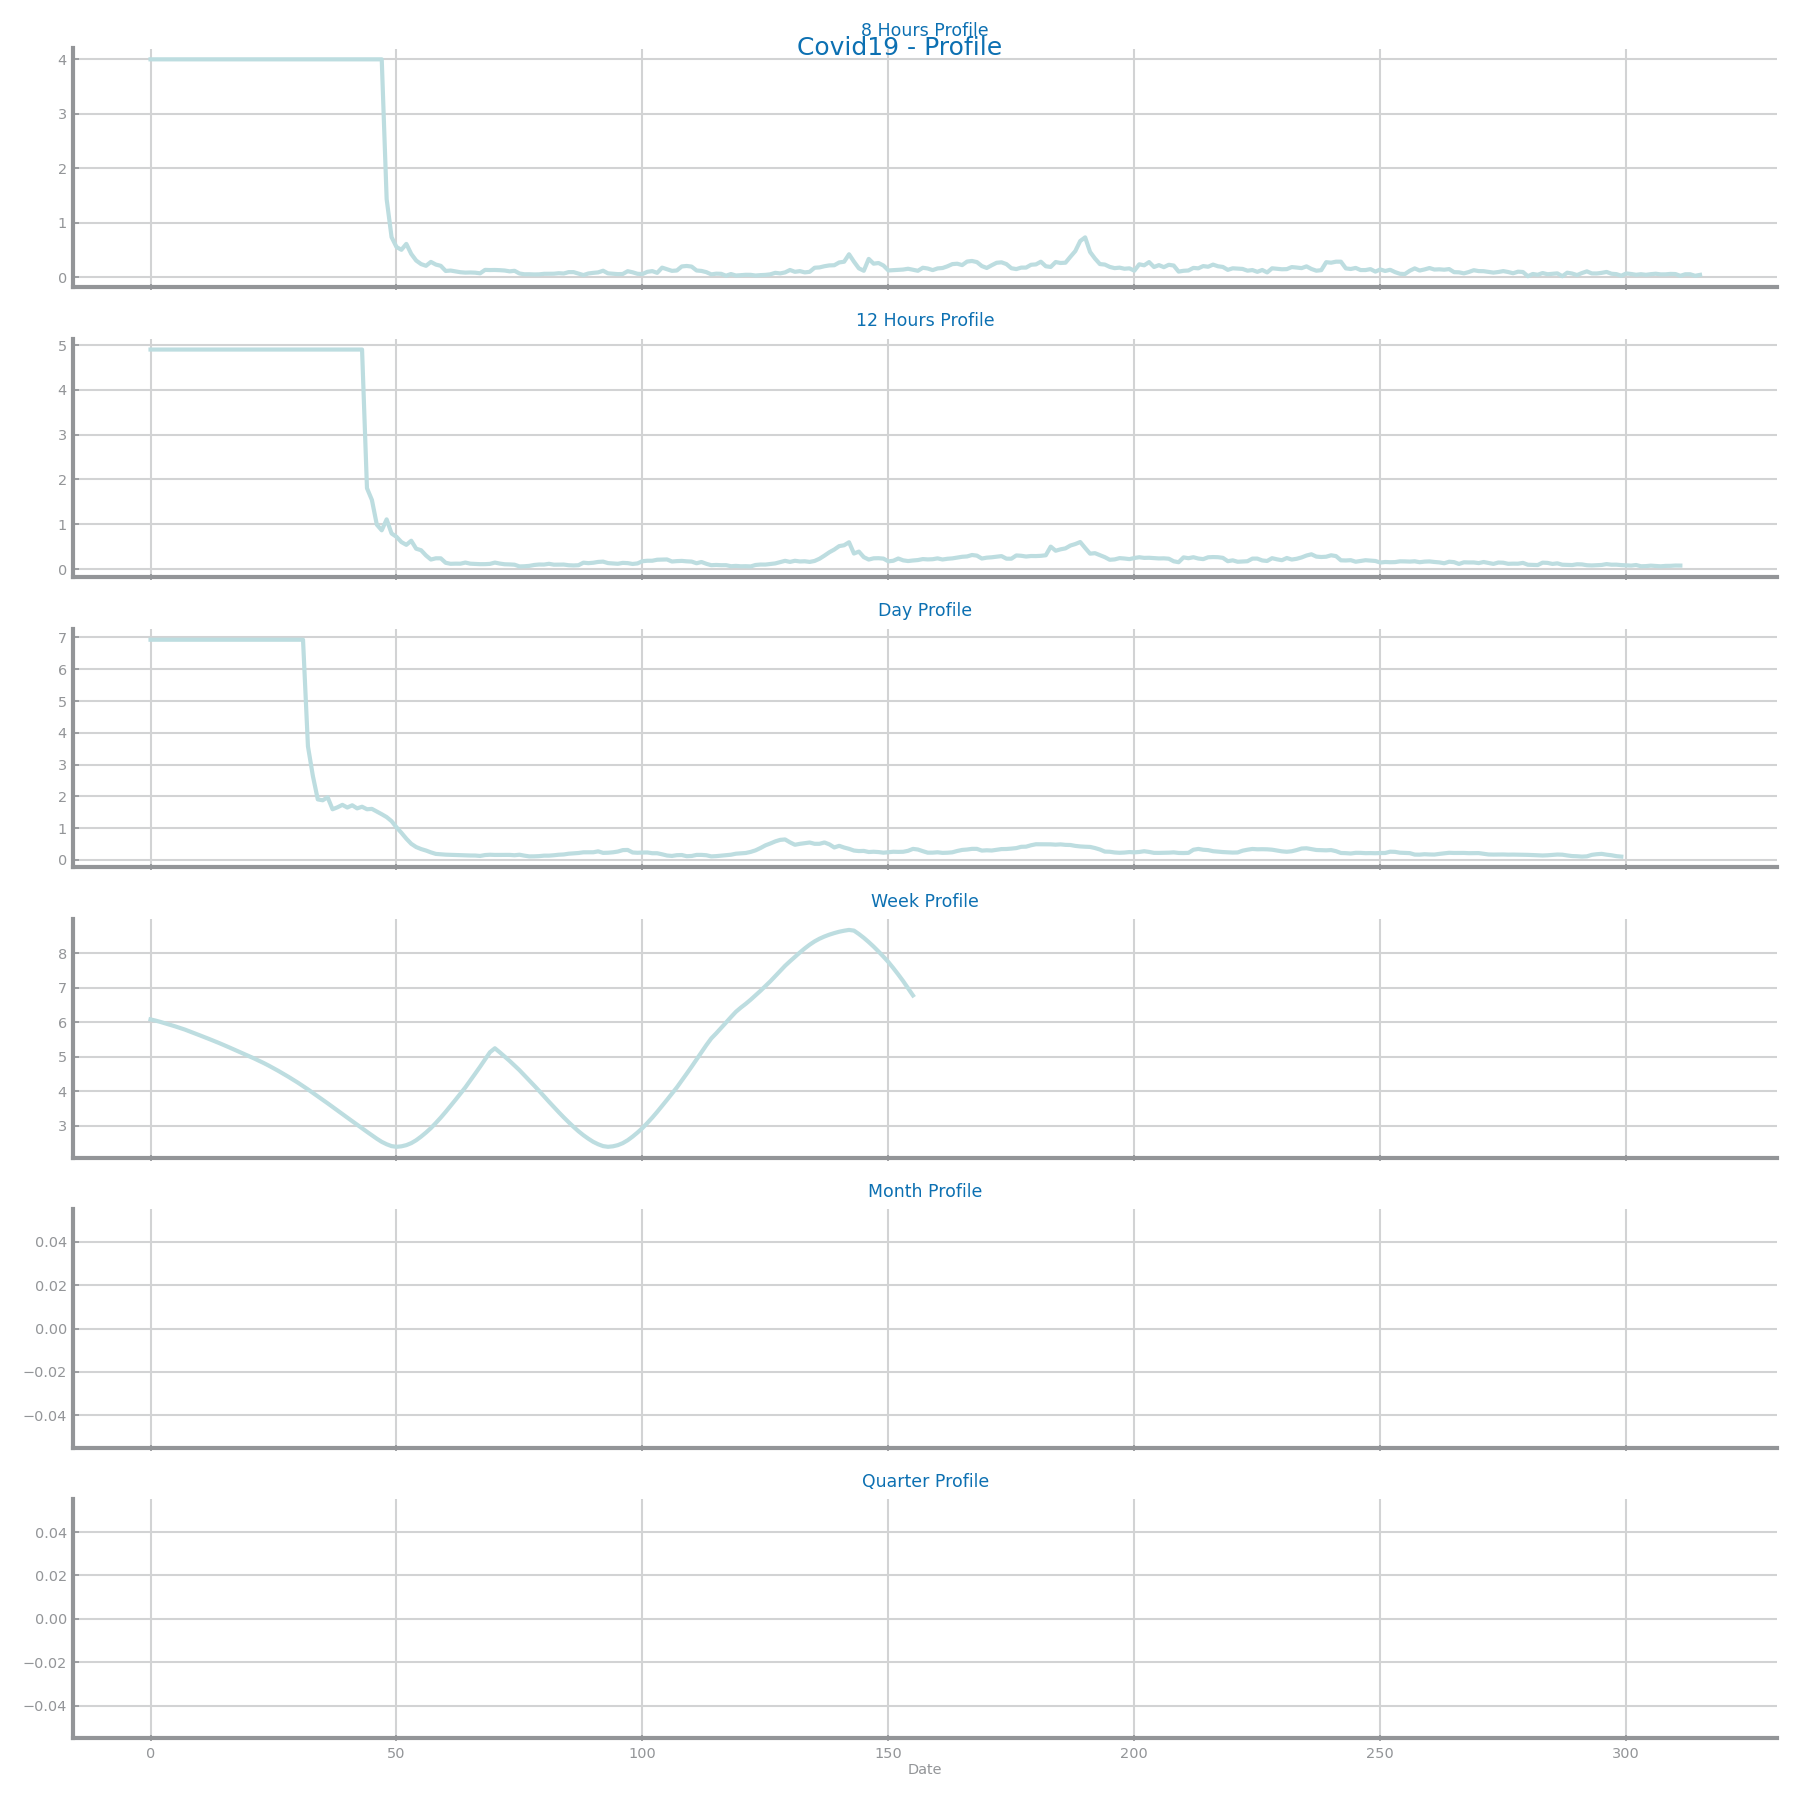
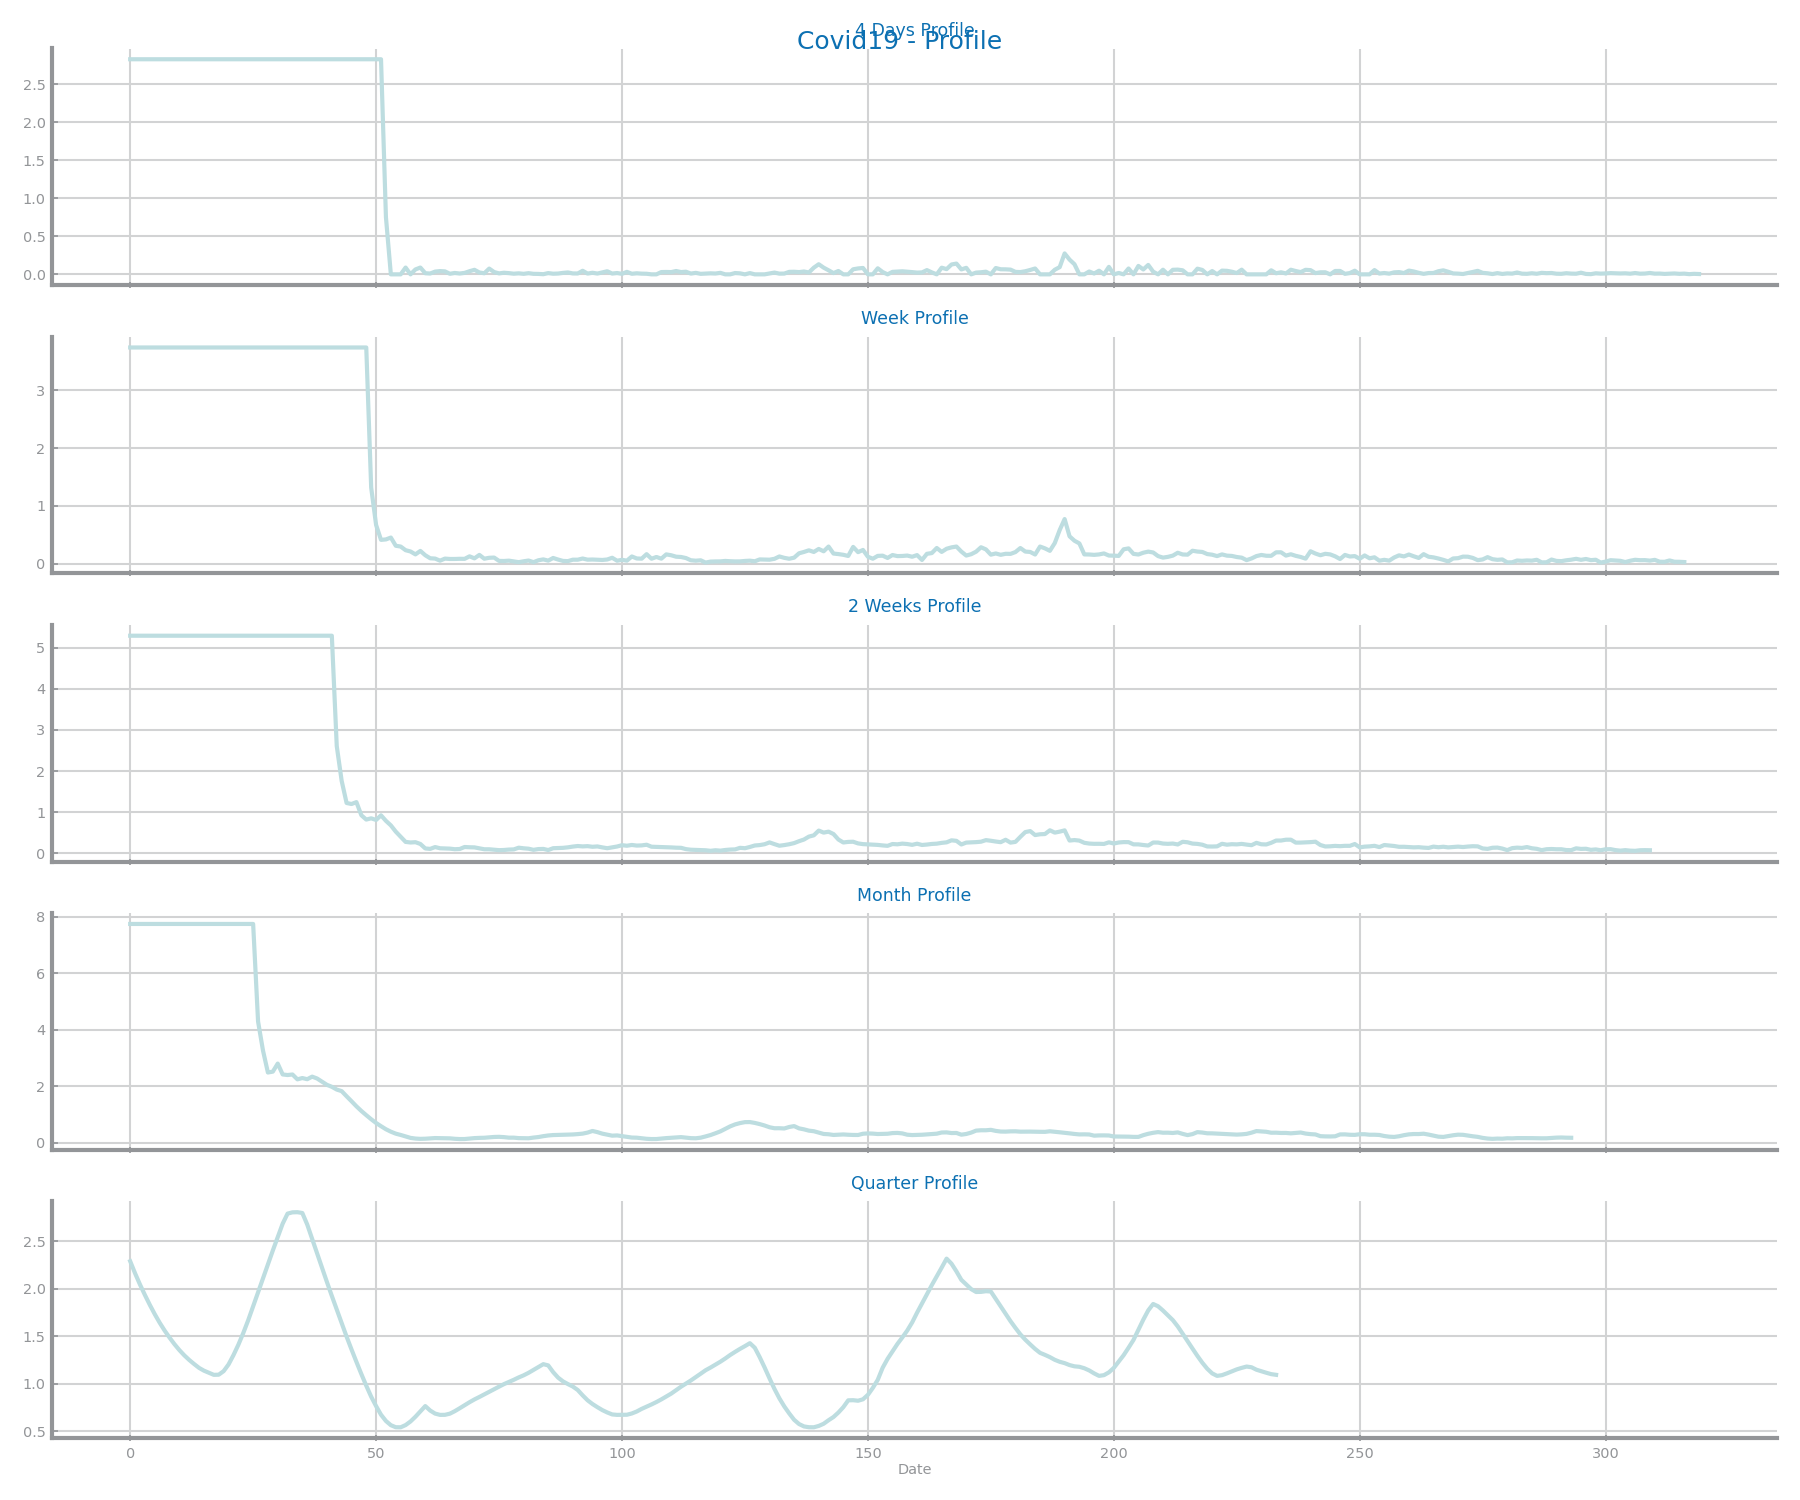
motifs

diff --git a/Last_Labs/covid19_motif_discovery.py b/Last_Labs/covid19_motif_discovery.py
@@ -33,12 +33,11 @@ if not os.path.exists(graphsDir):
 print('Covid19 - Matrix Profile')
 
 all_windows = [
-    ('8 Hours', 8),
-    ('12 Hours', 12),
-    ('Day', 24),
-    ('Week', 7 * 24),
-    ('Month', 30 * 24),
-    ('Quarter', 3 * 30 * 24),
+    ('4 Days', 4),
+    ('Week', 7),
+    ('2 Weeks', 2 * 7),
+    ('Month', 30),
+    ('Quarter', 3 * 30),
 ]
 
 def compute_matrix_profiles(df: pd.DataFrame, windows: list) :
@@ -72,17 +71,26 @@ def compute_all_profiles(profiles: dict, windows: list, k: int, type: str='motif
         key = '{} Profile'.format(label)
         profiles[key] = discover_function(profiles[key], k=k)
 
-compute_all_profiles(all_profiles, all_windows, k=5, type='motifs')
+
+graphsDir = './Results/Motif Discovery/Motifs/'
+if not os.path.exists(graphsDir):
+    os.makedirs(graphsDir)
+
+print('Covid19 - Motifs')
+
+
+compute_all_profiles(all_profiles, all_windows, k=3, type='motifs')
 
 def show_profile(profile, title, type):
     lst_figs = mp.visualize(profile)
     for i in range(len(lst_figs)-1):
         plt.close(lst_figs[i])
     plt.suptitle('Covid19 - ' + type + ' - ' + title)
-    plt.savefig('Covid19 - ' + type + ' - ' + title)
+    plt.savefig(graphsDir + 'Covid19 - ' + type + ' - ' + title)
 
 title = all_windows[0][0]+' Profile'
 show_profile(all_profiles[title], title, 'Motifs')
+#print(all_profiles[title])
 
 title = all_windows[2][0]+' Profile'
 show_profile(all_profiles[title], title, 'Motifs')
@@ -92,10 +100,7 @@ show_profile(all_profiles[title], title, 'Motifs')
 
 title = all_windows[4][0]+' Profile'
 show_profile(all_profiles[title], title, 'Motifs')
-
-title = all_windows[5][0]+' Profile'
-show_profile(all_profiles[title], title, 'Motifs')
-
+"""
 compute_all_profiles(all_profiles, all_windows, k=5, type='discords')
 
 title = all_windows[0][0]+' Profile'
@@ -103,3 +108,4 @@ show_profile(all_profiles[title], title, 'Discords')
 
 title = all_windows[3][0]+' Profile'
 show_profile(all_profiles[title], title, 'Discords')
+"""
